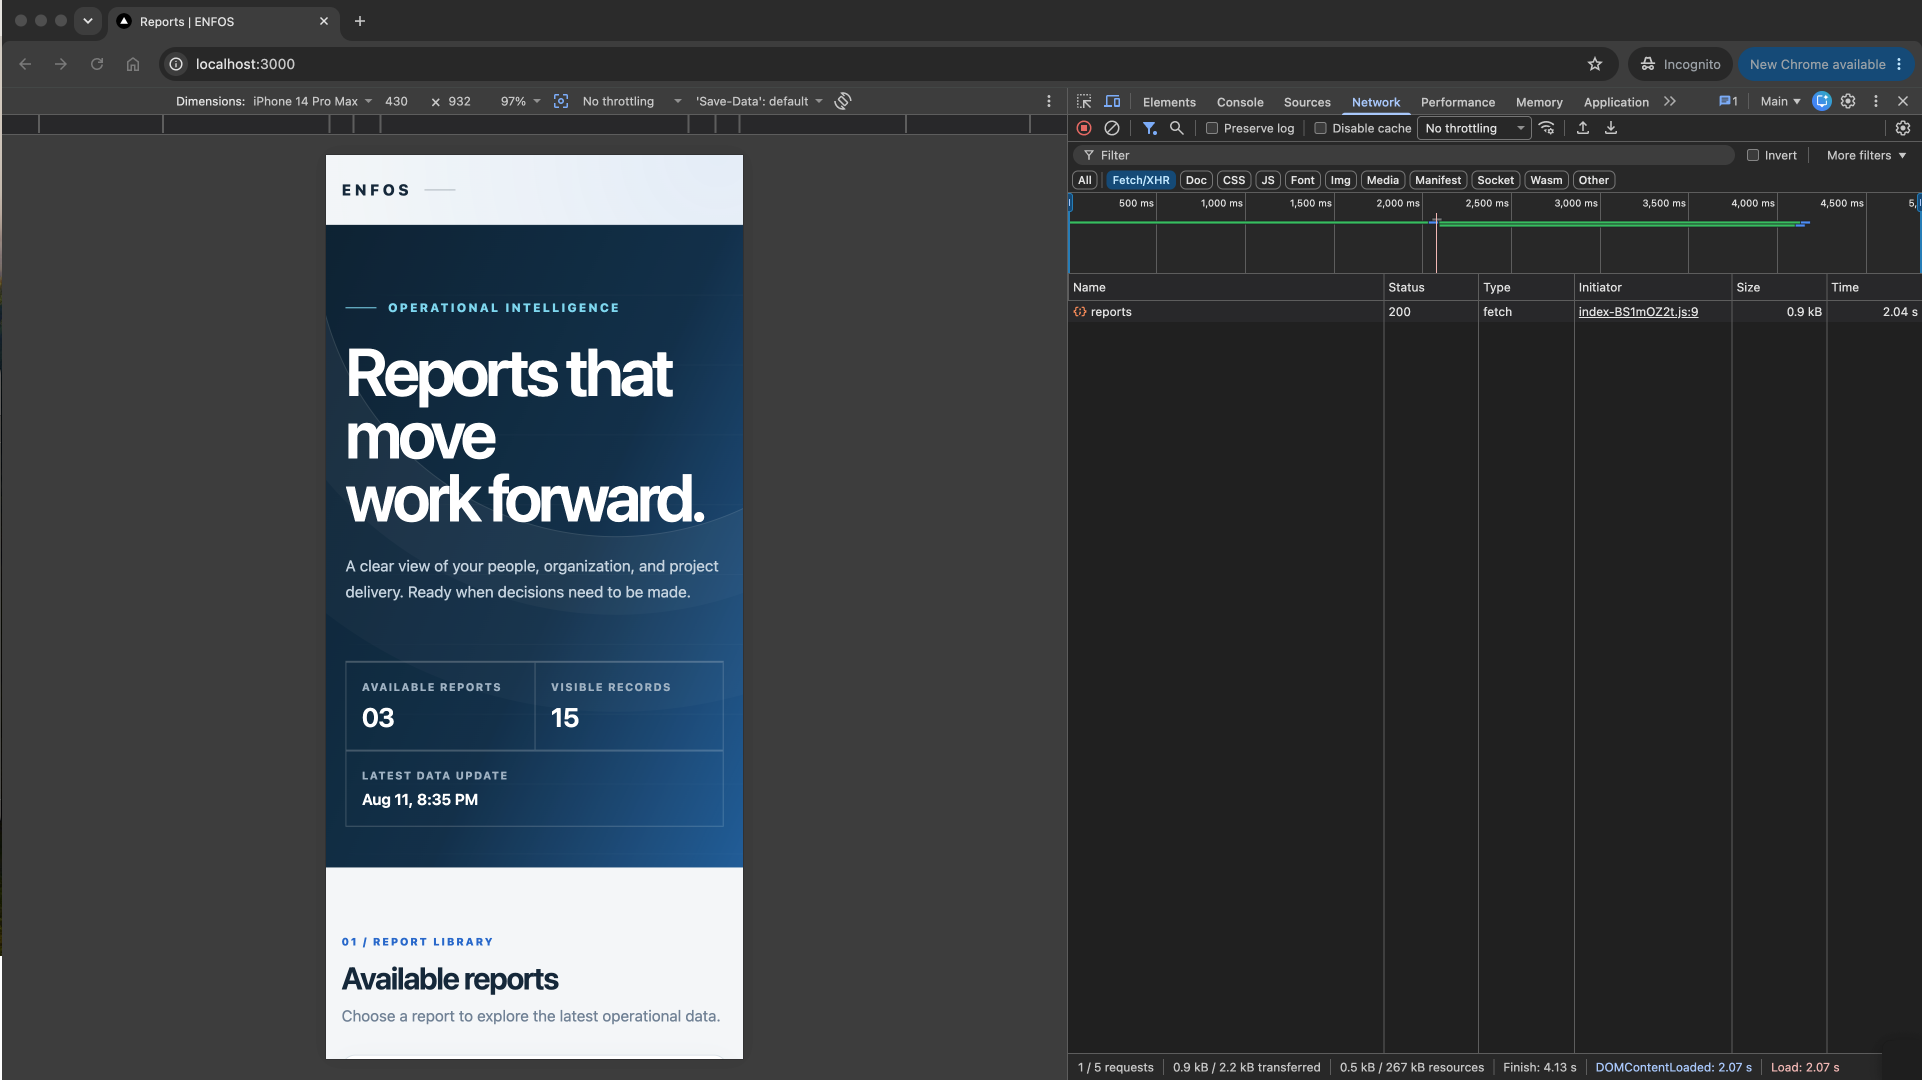
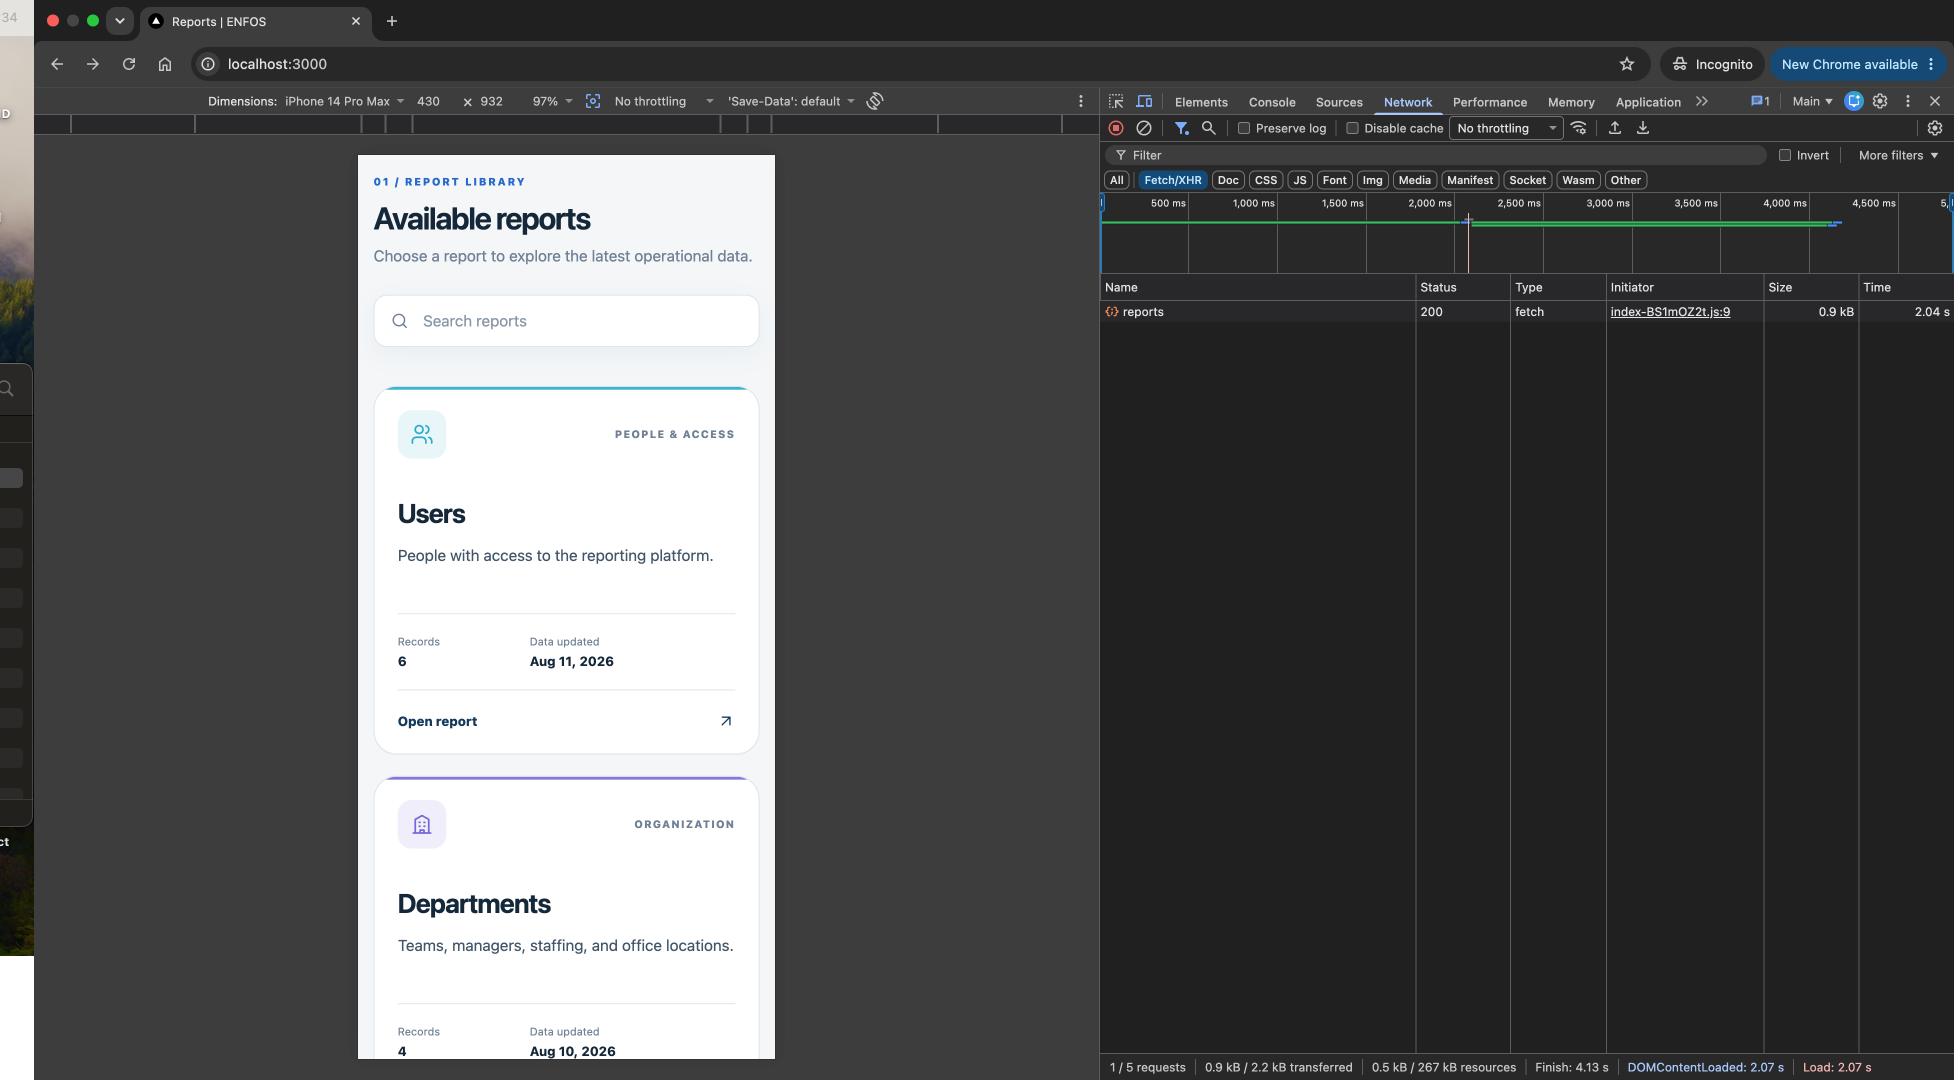
docs: expand responsive and filtering evidence

diff --git a/README.md b/README.md
@@ -31,11 +31,11 @@ The application uses deterministic in-memory data so it can be reviewed without 
 
 | Desktop and same-origin API | Responsive mobile layout |
 | --- | --- |
-| ![Desktop landing page with a successful API request](docs/screenshots/desktop-api-integration.png) | ![Landing page in an emulated mobile viewport](docs/screenshots/mobile-responsive.png) |
+| ![Desktop landing page with a successful API request](docs/screenshots/desktop-api-integration.png) | ![Report cards stacked vertically in an emulated mobile viewport](docs/screenshots/mobile-responsive.png) |
 | **Report filtering** | **Lighthouse audit** |
 | ![Department report filtered to a matching row](docs/screenshots/report-filtering.png) | ![Lighthouse scores for performance, accessibility, and best practices](docs/screenshots/lighthouse-audit.png) |
 
-Additional views: [Users report](docs/screenshots/users-report.png) and [Departments report on a tablet viewport](docs/screenshots/departments-tablet.png).
+Additional views: [Users report](docs/screenshots/users-report.png), [Departments report on a tablet viewport](docs/screenshots/departments-tablet.png), and [Projects report filtering across row fields](docs/screenshots/project-report-filtering.png).
 
 ## Quick start
 
